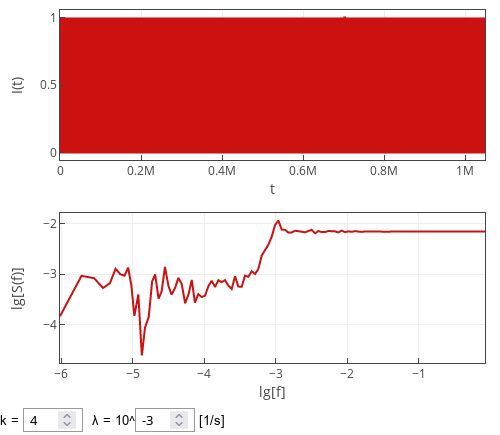
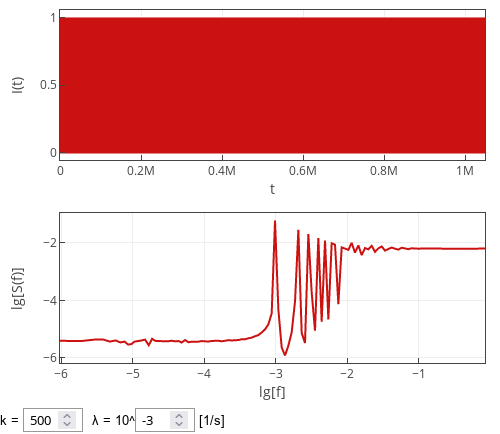
Weibull point process PSD: intuition and periodicity

diff --git a/articles/2023/point-process-psd-weibull.md b/articles/2023/point-process-psd-weibull.md
@@ -72,6 +72,28 @@ obtained for the \\\( k = 2 \\\) case is reproduced with other \\\( k > 1
 exponential distribution, and thus [the earlier derived
 result]({filename}/articles/2023/poisson-process-psd.md) is reproduced.
 
+## The intuition
+
+So, the question one could ask would be why the power spectral density is
+lower for frequencies lower than even rate, and higher for frequencies
+larger than event rate. I explain this result to myself by thinking that as
+\\\( k \\\) grows larger extremely small inter-event times become extremely
+unlikely. Thus there is very little "action" on the smallest time scales.
+
+But larger \\\( k \\\) imply that extremely long inter-event times also
+become notably less likely. But for some reason, this can't be as quickly
+seen in the power spectral density. As both short and long inter-event times
+become less likely, inter-event times in the vicinity of \\\( 1 / \lambda
+\\\) becomes more likely. Thus at certain point we should start observing
+signs of [the periodicity in the spectral
+density]({filename}/articles/2013/power-spectral-density-part-1.md). And
+this is indeed true as is shown in the figure below.
+
+![Power spectral density of the point process with Weibull inter-event times
+for extremely large k]({static}/uploads/2023/point-process-psd-weibull.png
+"Power spectral density of the point process with Weibull inter-event
+times for k=500.")
+
 ## Interactive app
 
 Interactive app below samples time series from the [point
